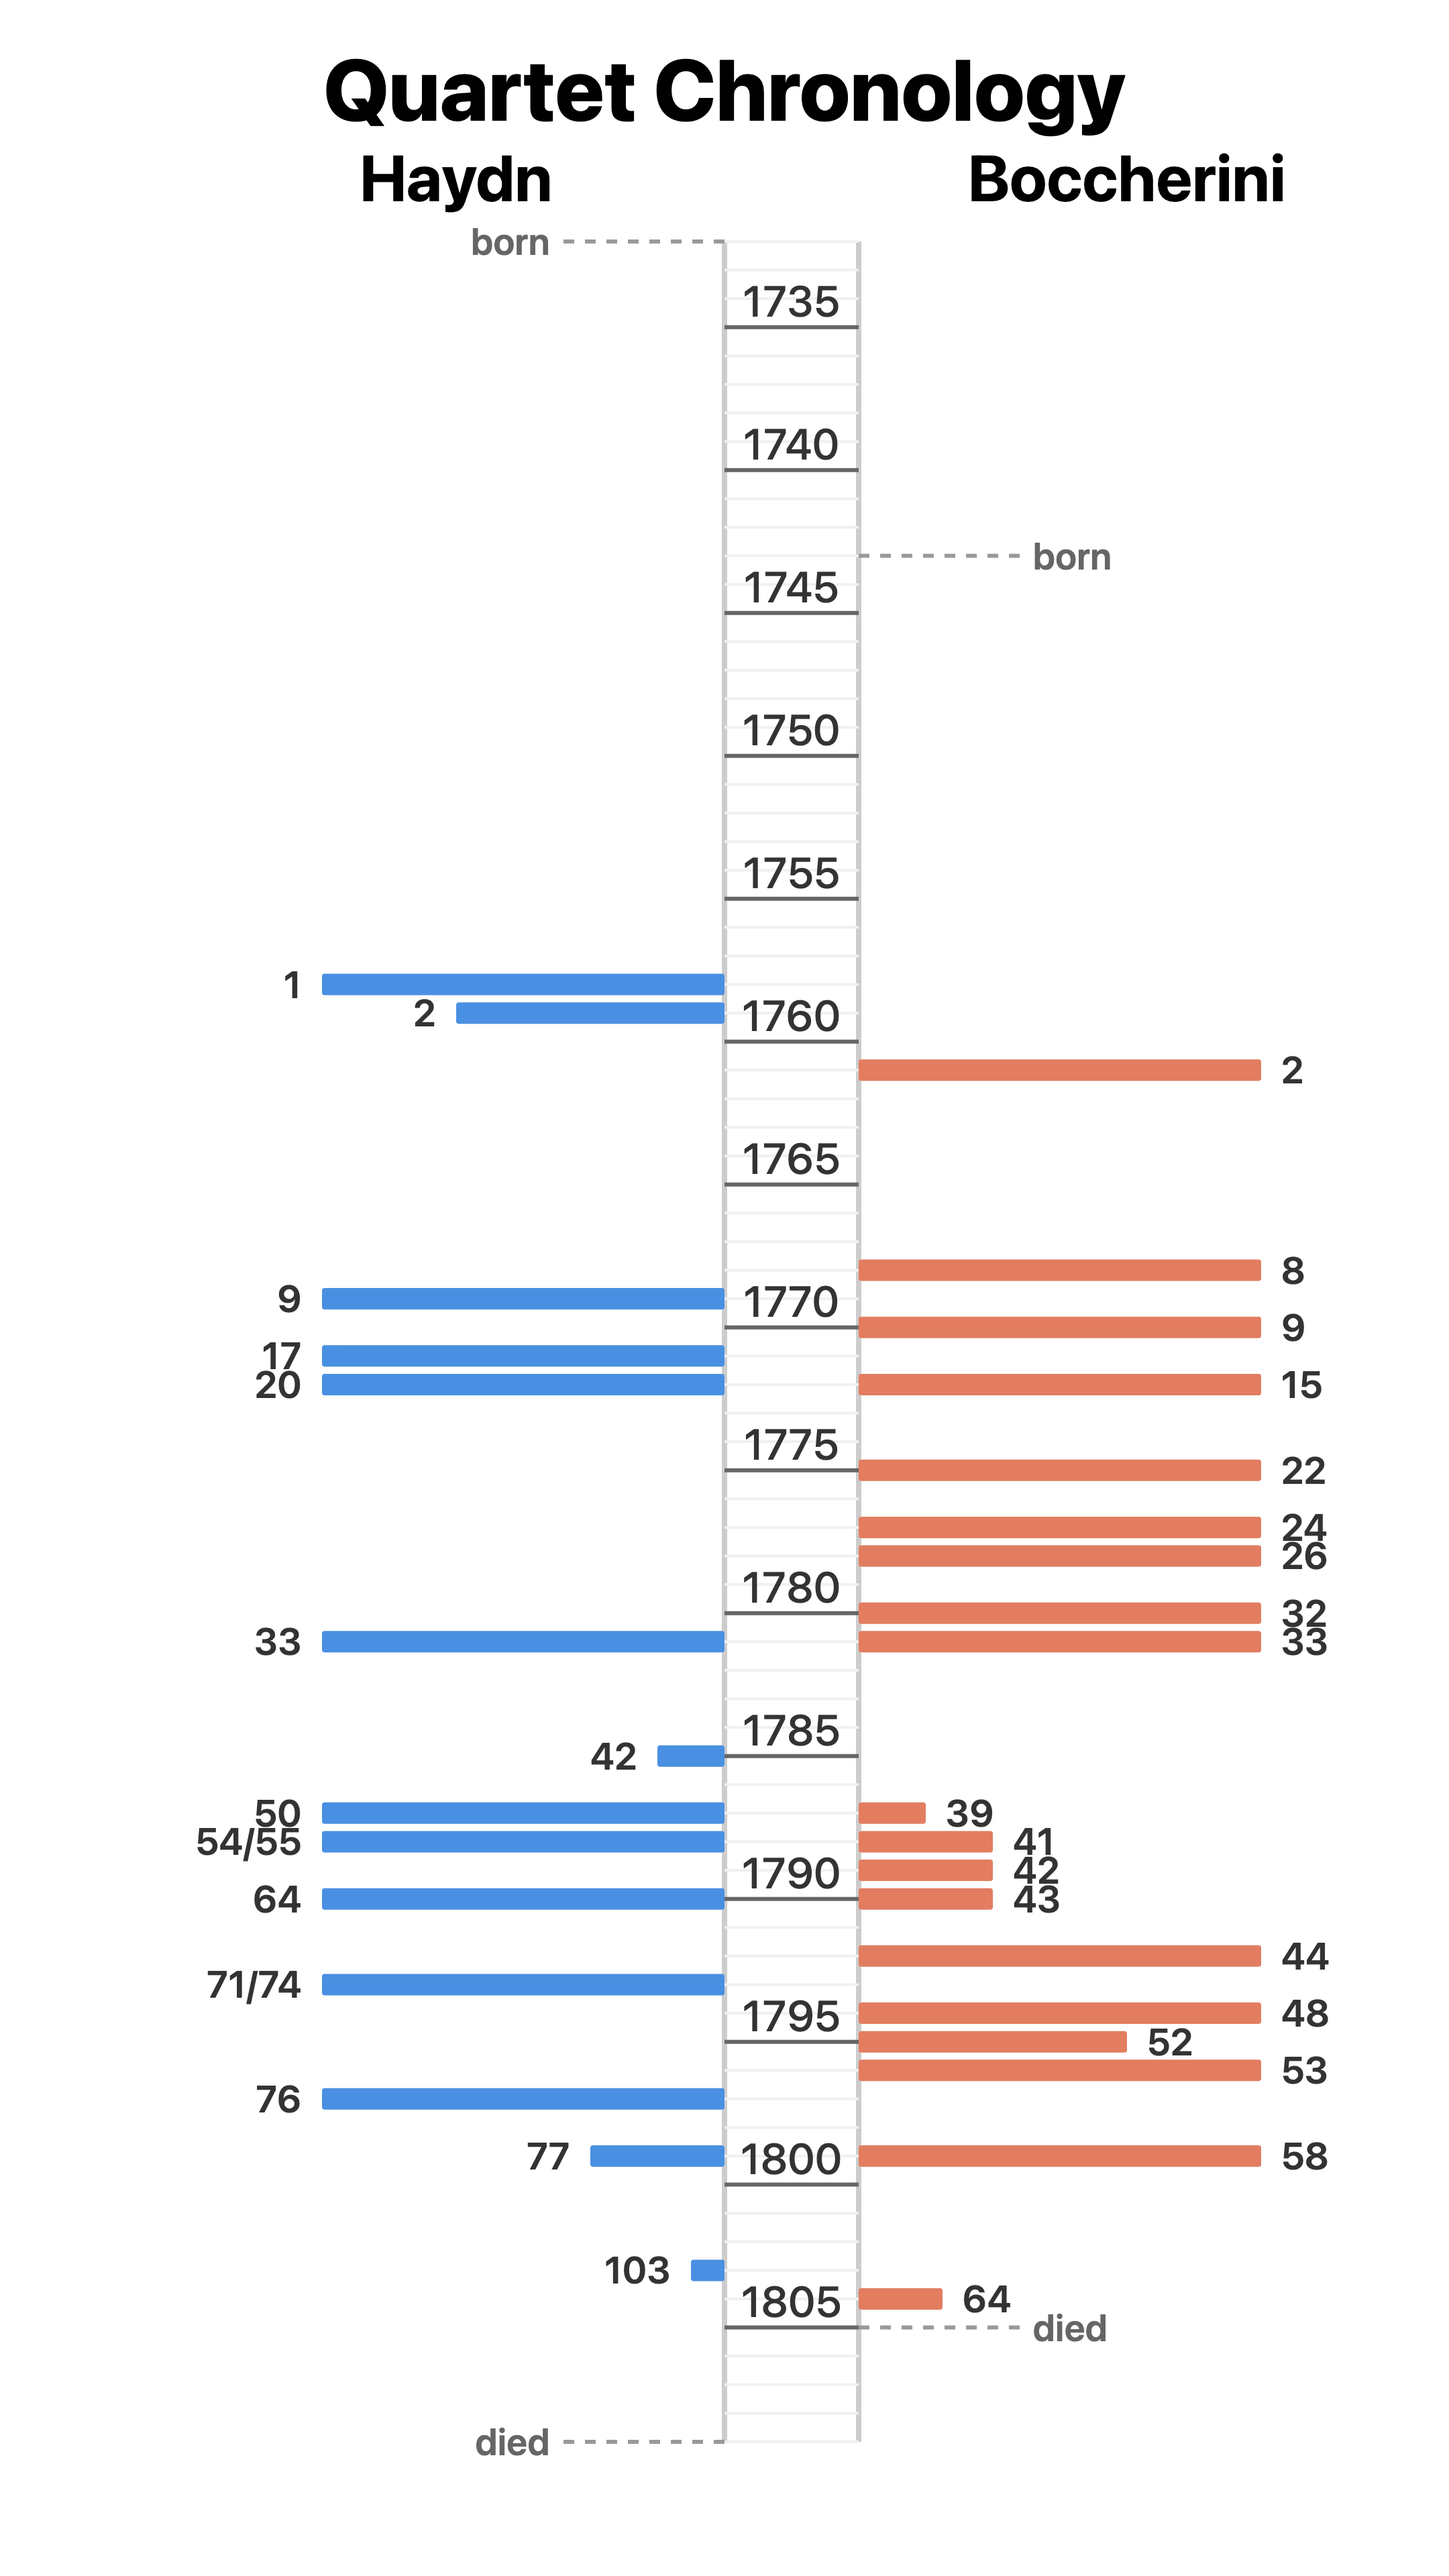
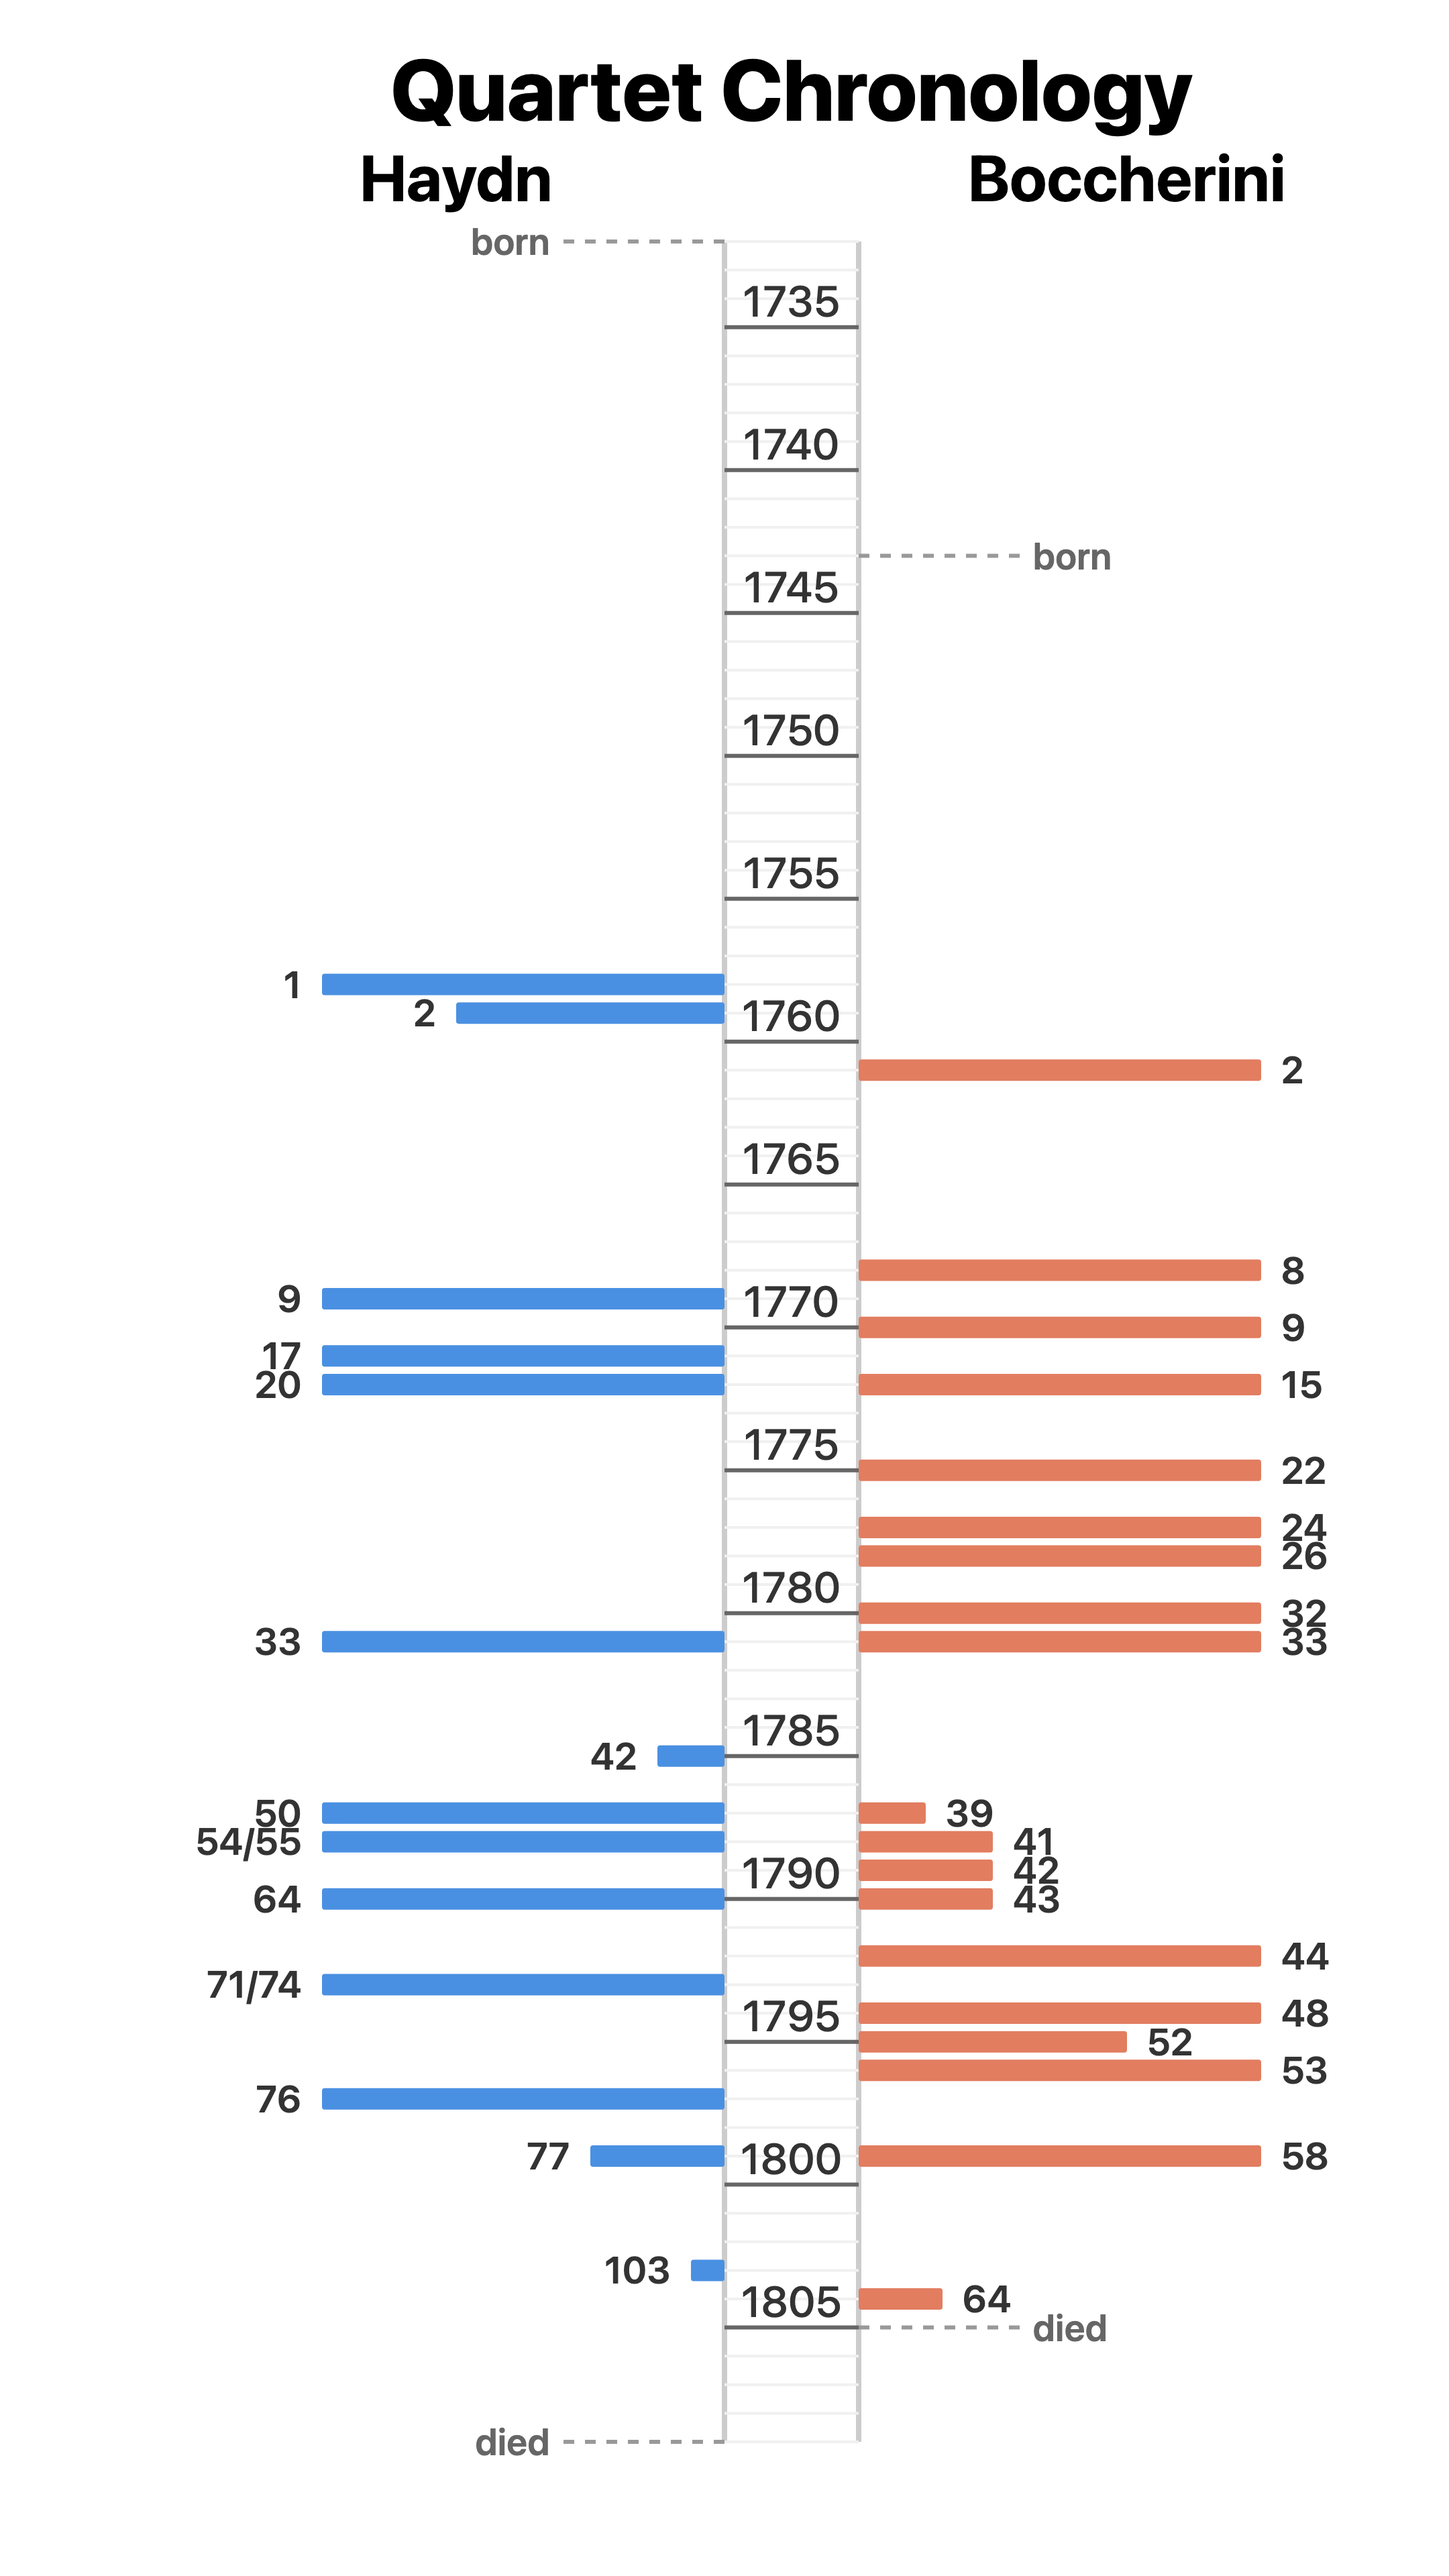
Center title on the chart's optical center
The title was anchored at the canvas midpoint (x=540), but the visual
center of the composition is the midpoint between the two axis spines
(x=590), so it read as shifted left.

Changed region(s): [[0.2171, 0.0, 0.8375, 0.0625]]

diff --git a/index.html b/index.html
@@ -119,9 +119,10 @@
         svg.setAttribute('viewBox', `0 0 ${width} ${height}`);
         document.getElementById('chart').appendChild(svg);
 
-        // Title
+        // Title — anchored to the optical center (midpoint of the two axis
+        // spines), not the canvas center, so it reads as centered.
         const title = document.createElementNS('http://www.w3.org/2000/svg', 'text');
-        title.setAttribute('x', width / 2);
+        title.setAttribute('x', margin.left + chartWidth / 2 + 50);
         title.setAttribute('y', 90);
         title.setAttribute('text-anchor', 'middle');
         title.setAttribute('class', 'title');
